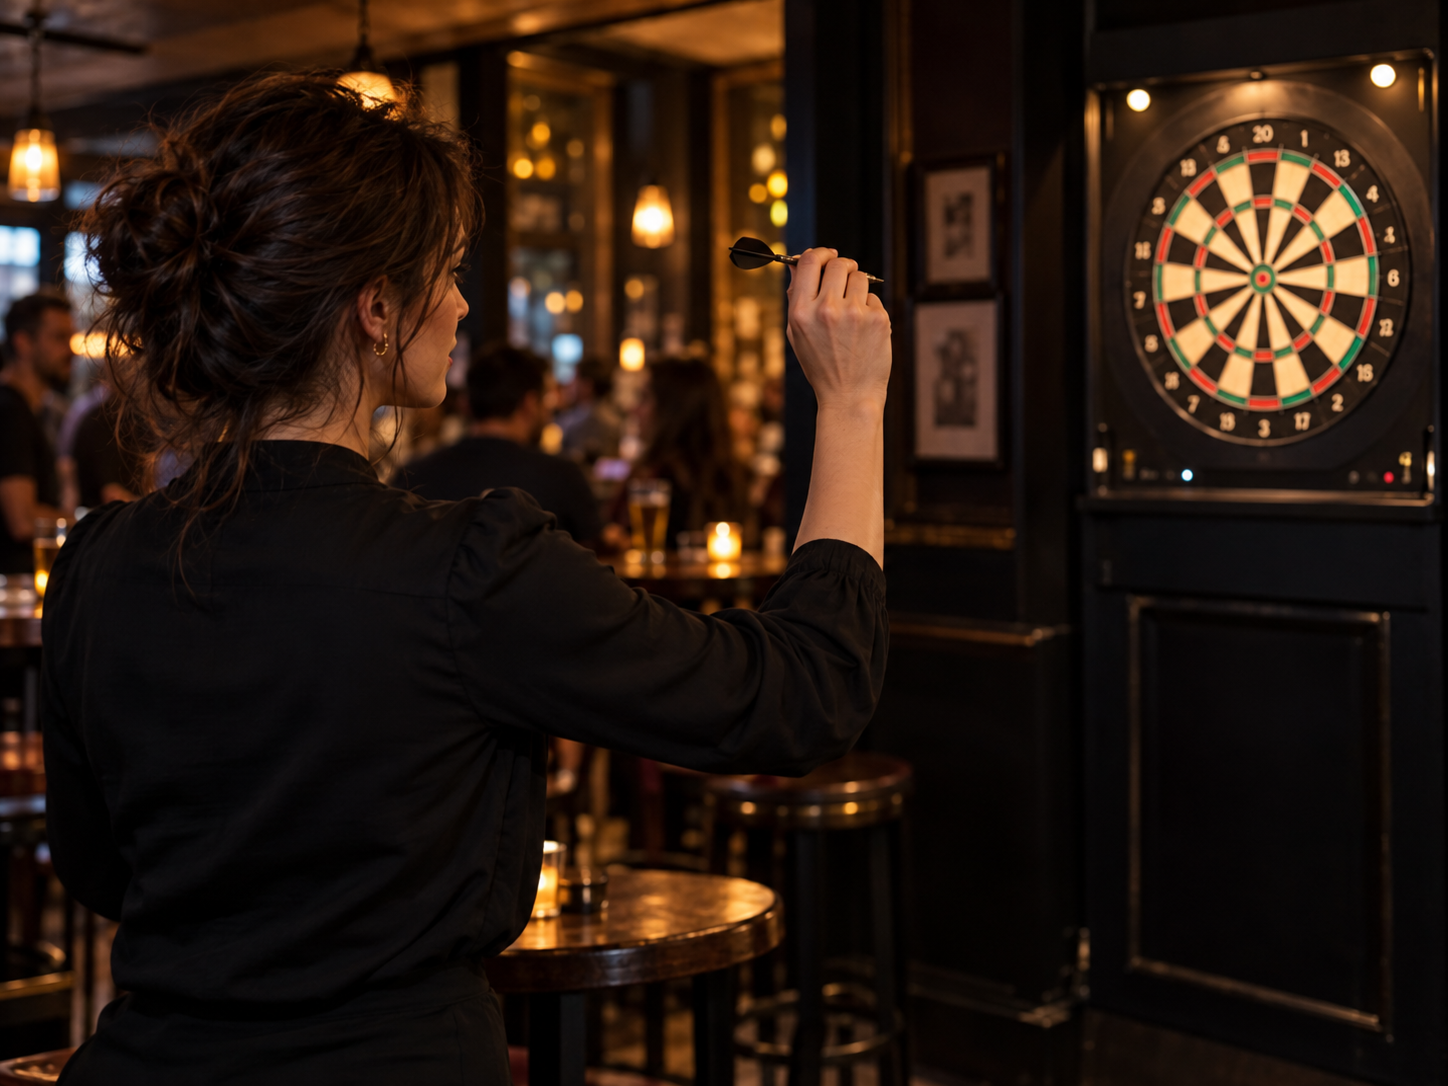
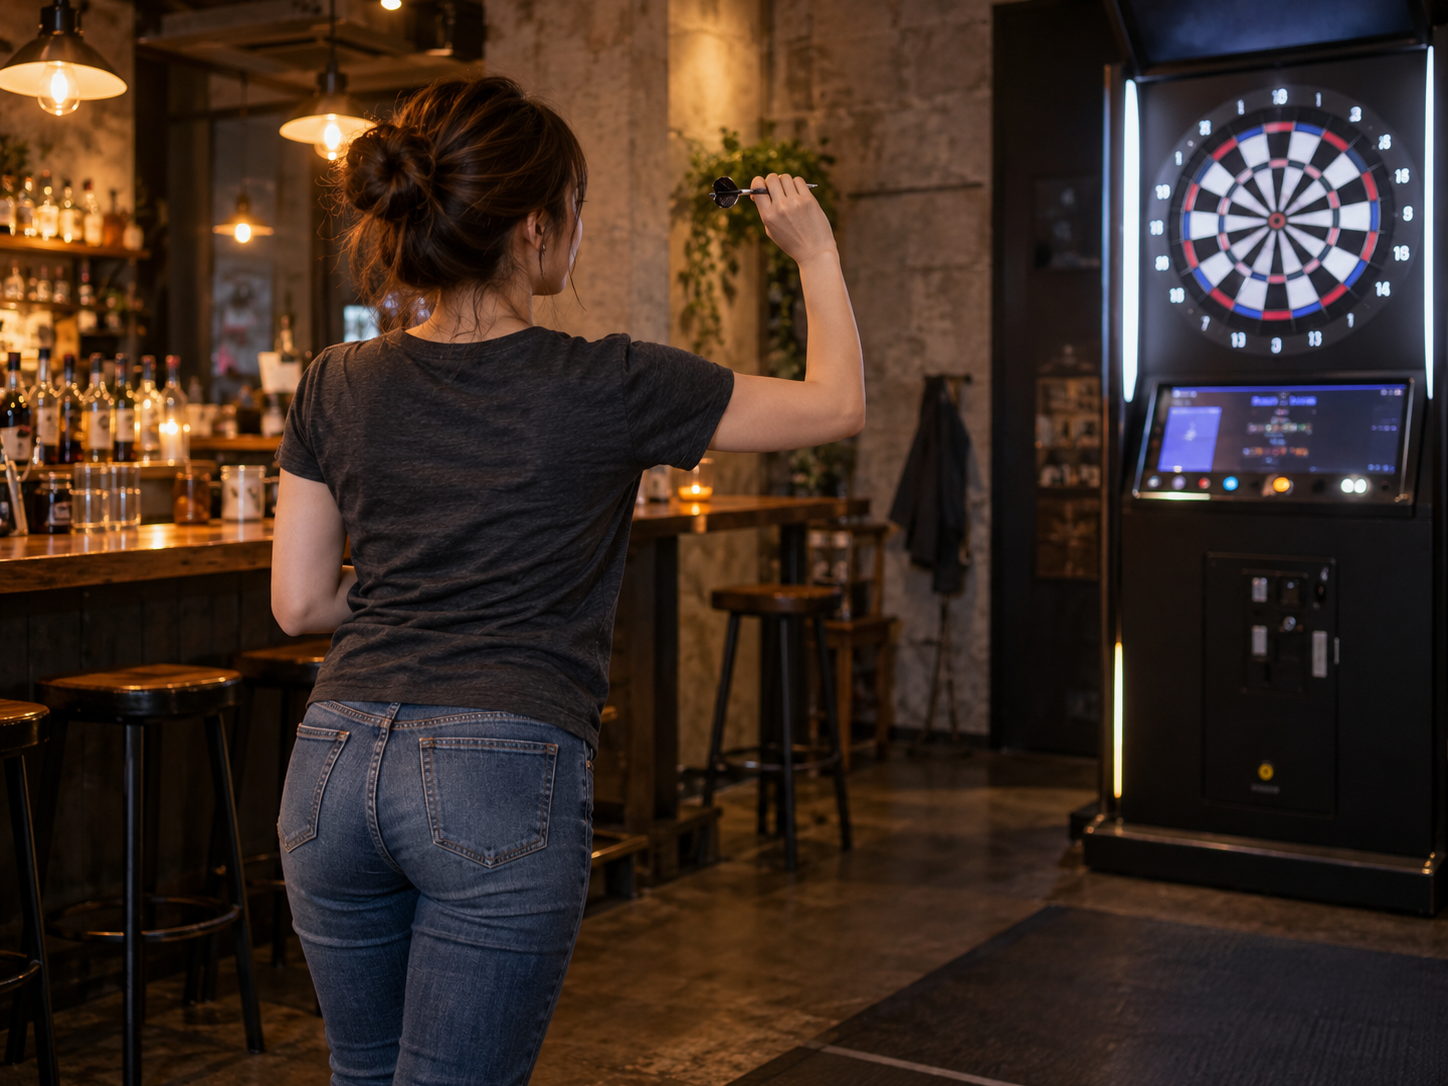
Compact darts and shisha cards with casual bar imagery

diff --git a/index.html b/index.html
@@ -12,7 +12,7 @@
   <meta property="og:description" content="吉祥寺北町で、夜をゆっくり。月〜土 20:00〜翌4:00。ダーツ・シーシャのあるBAR REALTA。">
   <link rel="icon" href="assets/favicon.svg" type="image/svg+xml">
   <link rel="stylesheet" href="assets/fonts.css">
-  <link rel="stylesheet" href="assets/style.css?v=428f2d0a8d94">
+  <link rel="stylesheet" href="assets/style.css?v=ad66addda10b">
   <link rel="stylesheet" href="assets/hero.css?v=784bd300a1dc">
   <script src="assets/main.js" defer></script>
   <script type="application/ld+json">
@@ -91,7 +91,7 @@
       <div class="section-heading"><h2 id="experience-title">夜の楽しみ方は、自由に。</h2><p>気分に合わせて、もうひとつの楽しみを。</p></div>
       <div class="leisure-list">
         <article class="leisure-row" aria-labelledby="darts-title">
-          <div class="leisure-visual"><img src="assets/images/darts-atmosphere.png?v=089d7538b712" width="1448" height="1086" alt="暗いバーで大人の女性がダーツを構える様子と、背景のダーツボードを描いたイメージ画像" loading="lazy" decoding="async"></div>
+          <div class="leisure-visual"><img src="assets/images/darts-atmosphere.png?v=94a433020e83" width="1448" height="1086" alt="街のバーでカジュアルな服装の大人の女性が立ってダーツを投げる様子と、ダーツボードを描いたイメージ画像" loading="lazy" decoding="async"></div>
           <div class="leisure-content">
             <p class="leisure-label">01 / PLAY</p>
             <h3 id="darts-title"><span>DARTS /</span> ダーツ</h3>
@@ -100,7 +100,7 @@
           </div>
         </article>
         <article class="leisure-row" aria-labelledby="shisha-title">
-          <div class="leisure-visual"><img src="assets/images/shisha-atmosphere.png?v=28161f9a0fdc" width="1448" height="1086" alt="落ち着いたラウンジで大人の女性がシーシャを楽しむ様子と、シーシャ本体を描いたイメージ画像" loading="lazy" decoding="async"></div>
+          <div class="leisure-visual"><img src="assets/images/shisha-atmosphere.png?v=53d2cb34bfc5" width="1448" height="1086" alt="街のバーでカジュアルな服装の大人の女性が自然にシーシャを楽しむ様子と、シーシャ本体を描いたイメージ画像" loading="lazy" decoding="async"></div>
           <div class="leisure-content">
             <p class="leisure-label">02 / RELAX</p>
             <h3 id="shisha-title"><span>SHISHA /</span> シーシャ</h3>

diff --git a/assets/style.css b/assets/style.css
@@ -78,3 +78,14 @@ h1,h2,h3,.photo-intro>p:last-child{font-family:var(--serif);font-weight:300}
 @media(max-width:1100px){.leisure-content{padding:28px 24px}.leisure-row{grid-template-columns:minmax(0,37fr) minmax(0,63fr)}}
 @media(max-width:800px){.leisure-row{grid-template-columns:minmax(0,1fr);padding:16px}.leisure-visual{width:70%;justify-self:center}.leisure-visual img{height:auto;min-height:0;aspect-ratio:4/3;object-fit:contain}.leisure-content{padding:28px 8px 24px}.leisure-label{font-size:15px;margin-bottom:18px}.leisure-content h3{font-size:32px;margin-bottom:18px}.leisure-price{margin-top:24px;padding-top:18px}.leisure-price strong{font-size:32px}.leisure-list{gap:26px}}
 @media(max-width:360px){.leisure-content{padding:24px 8px}.leisure-content h3{font-size:29px}.leisure-price{font-size:18px}.leisure-price strong{font-size:30px}}
+
+/* Compact neighborhood-bar experience cards; all rules are section-scoped. */
+.experience{padding-top:64px;padding-bottom:64px}
+.experience>.section-label,.experience>.section-heading,.experience>.leisure-list,.experience>.leisure-image-note,.experience>.age-note{max-width:1080px;margin-left:auto;margin-right:auto}
+.experience>.section-label{margin-bottom:32px}.experience>.section-heading{margin-bottom:28px}
+.experience .leisure-list{gap:22px}.experience .leisure-row{grid-template-columns:minmax(0,320px) minmax(0,1fr);padding:16px}
+.experience .leisure-visual{width:100%;max-width:320px;justify-self:center}.experience .leisure-visual img{height:auto;max-height:240px;object-fit:contain}
+.experience .leisure-content{padding:16px 28px}.experience .leisure-label{margin-bottom:14px}.experience .leisure-content h3{margin-bottom:14px}
+.experience .leisure-price{margin-top:20px;padding-top:14px}.experience .leisure-note{margin-top:12px}.experience>.leisure-image-note{margin-top:18px}.experience>.age-note{margin-top:14px}
+@media(max-width:1100px){.experience .leisure-row{grid-template-columns:minmax(0,33fr) minmax(0,67fr)}.experience .leisure-visual{max-width:280px}.experience .leisure-content{padding:16px 22px}}
+@media(max-width:800px){.experience{padding-top:48px;padding-bottom:48px}.experience .leisure-row{grid-template-columns:minmax(0,1fr);padding:12px}.experience .leisure-visual{width:65%;max-width:220px}.experience .leisure-visual img{max-height:165px}.experience .leisure-content{padding:20px 8px 14px}.experience>.section-label{margin-bottom:28px}.experience .leisure-list{gap:20px}}
